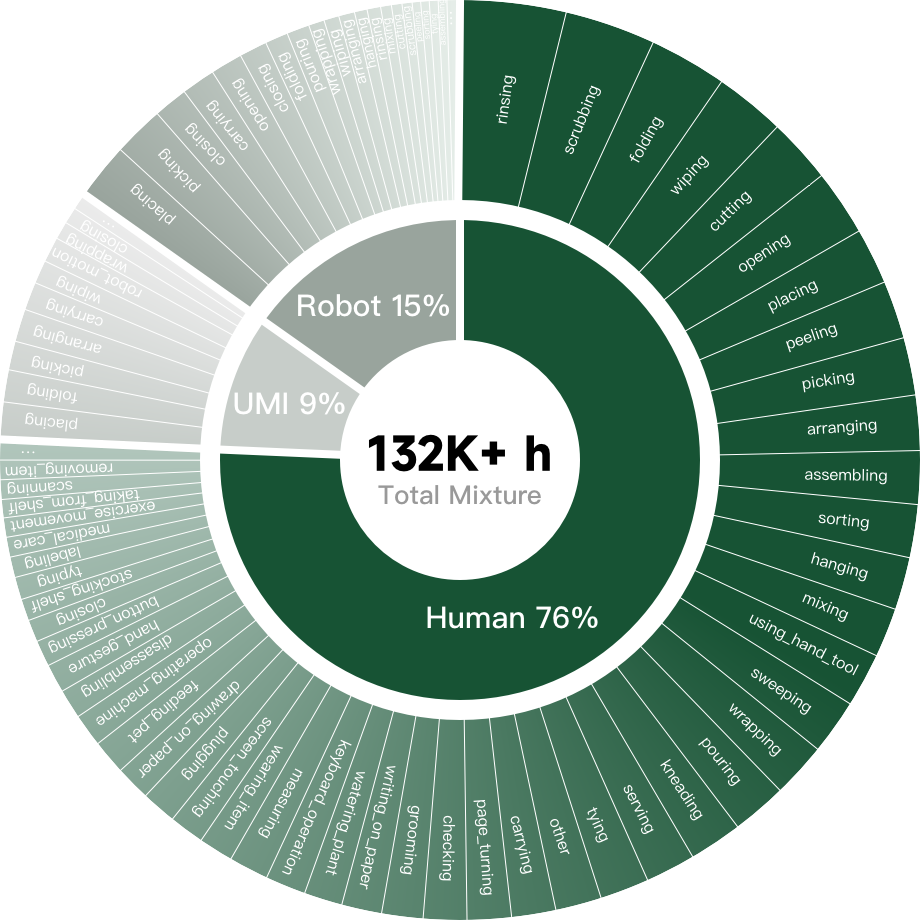
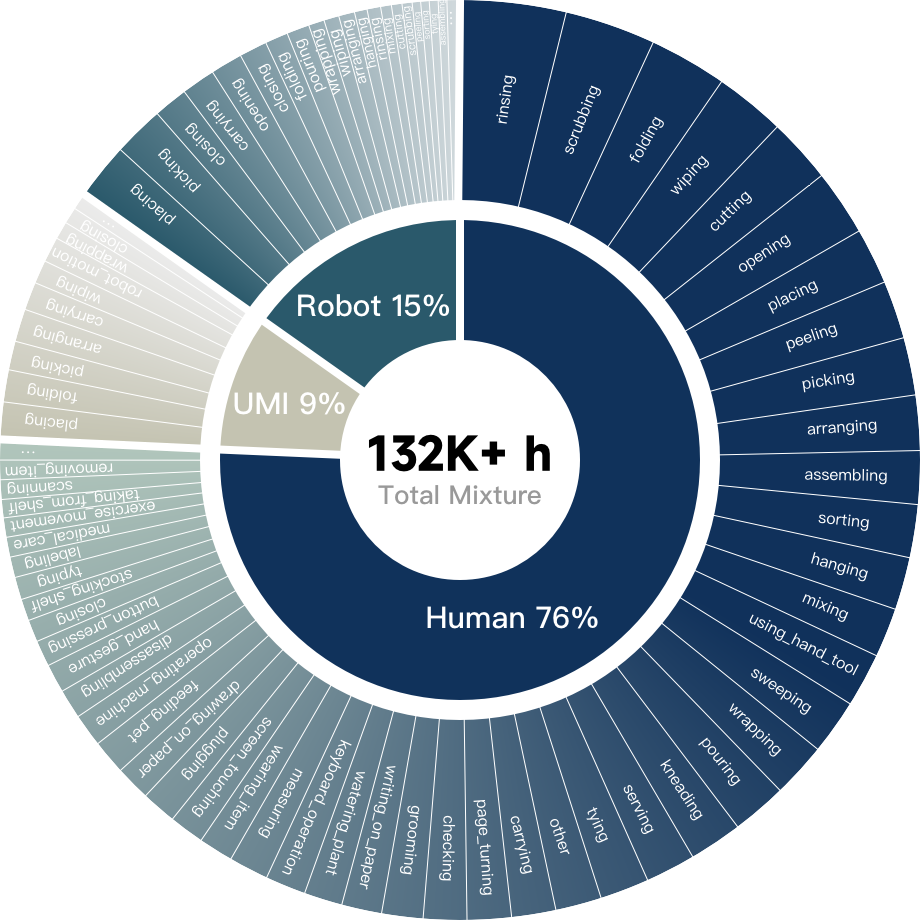
Update website

diff --git a/index.html b/index.html
@@ -52,9 +52,9 @@
         </button>
 
         <nav class="site-nav site-links" id="site-navigation" aria-label="Project links" data-navigation>
-          <a href="#" aria-label="https://riemann-dynamics.github.io/Riemann-1.0-Website/">Blog</a>
-          <a href="#" aria-label="https://github.com/Riemann-Dynamics/Riemann-1.0">Code</a>
-          <a href="#" aria-label="https://riemann-dynamics.github.io/Riemann-1.0-Website/paper/Riemann-1.0.pdf">Paper</a>
+          <a href="https://riemann-dynamics.github.io/Riemann-1.0-Website/" target="_blank" rel="noopener">Blog</a>
+          <a href="https://github.com/Riemann-Dynamics/Riemann-1.0" target="_blank" rel="noopener">Code</a>
+          <a href="https://riemann-dynamics.github.io/Riemann-1.0-Website/paper/Riemann-1.0.pdf" target="_blank" rel="noopener">Paper</a>
         </nav>
       </div>
     </header>